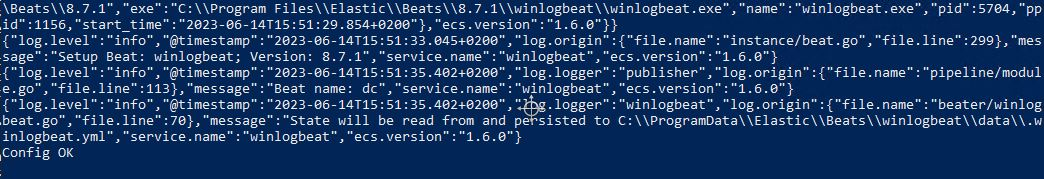
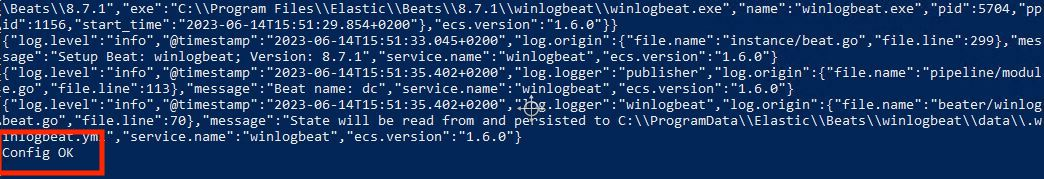
lines edited

Changed region(s): [[0.0, 0.6983, 0.1226, 1.0]]

diff --git a/Advanced_monitoring/README.md b/Advanced_monitoring/README.md
@@ -16,7 +16,15 @@ After the installation, it is now time to set up the agent (Winlogbeat) on all s
 
 When you have downloaded the agent and the installation has been completed, you will be asked at the end if you want to open the directory to the configuration files. Confirm this so that the directory is opened. This directory contains sample configuration files for the agent. I have provided you with an example here. These file are written in YAML format.
 
-[Winlogbeat config file](/Advanced_monitoring/winlogbeat.yml "Example configuration")
+[Winlogbeat Configuration File](/Advanced_monitoring/winlogbeat.yml)
+
+If you have copied this file into the directory, you can now run a check and see if everything is ok. YAML is very space sensitive, a check is worthwhile in any case.
+
+<img src="/Advanced_monitoring/SO-Winlogbeat_Config_Check.JPG" alt="Check the Configuration File">
+
+An "OK" confirmation must be issued otherwise the service will not start.
+
+<img src="/Advanced_monitoring/SO-Winlogbeat_Config_OK.JPG" alt="Config OK">
 
 
 ---
